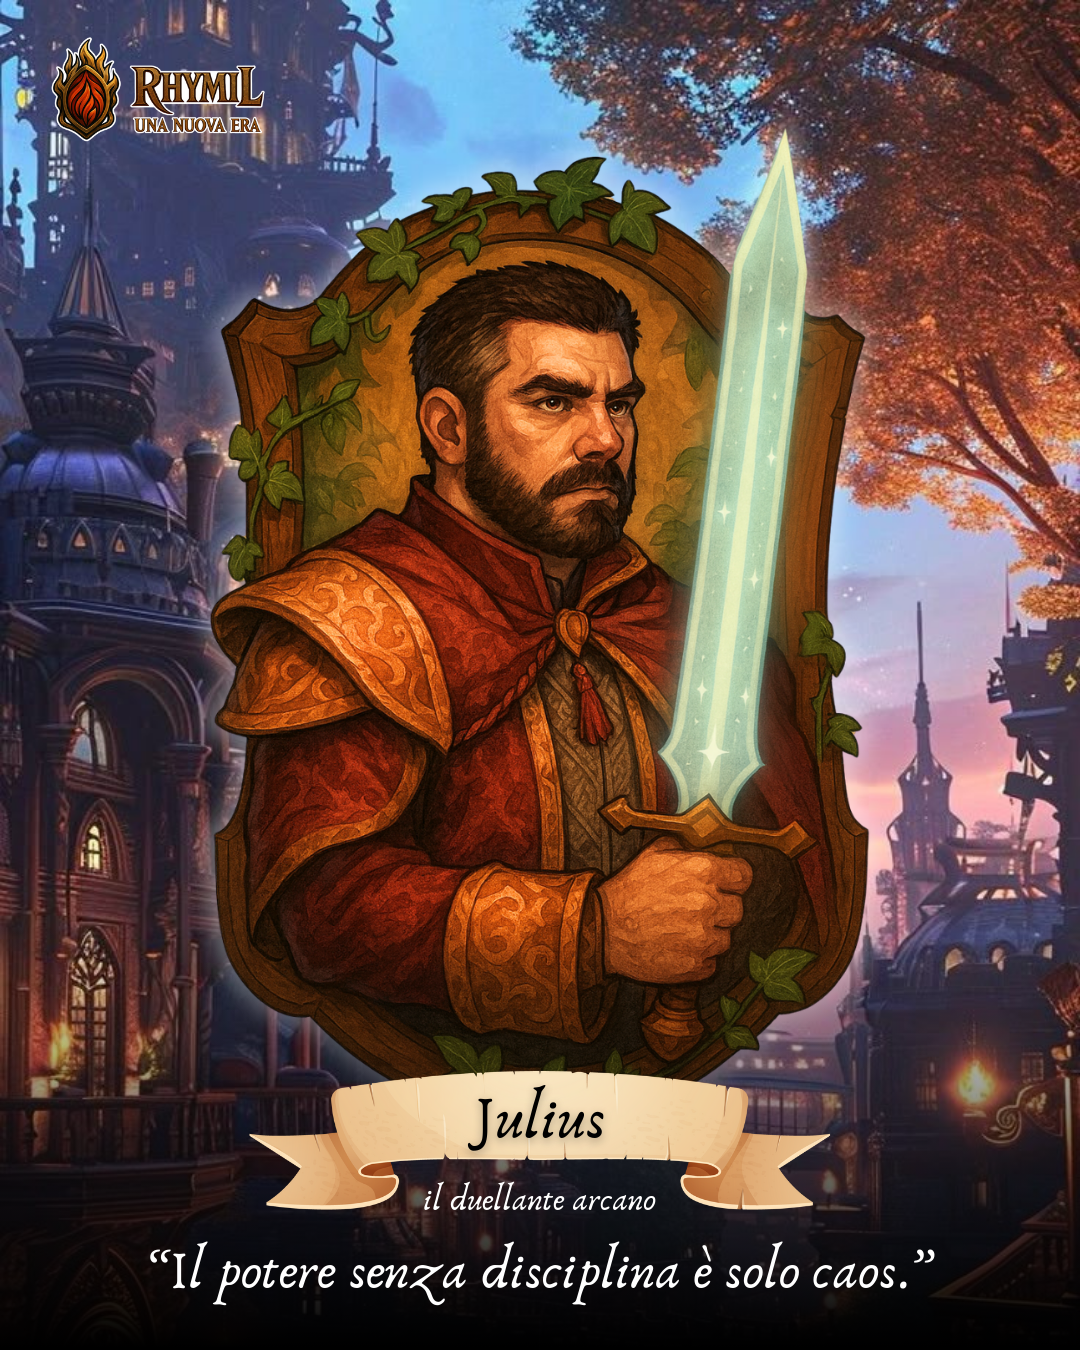
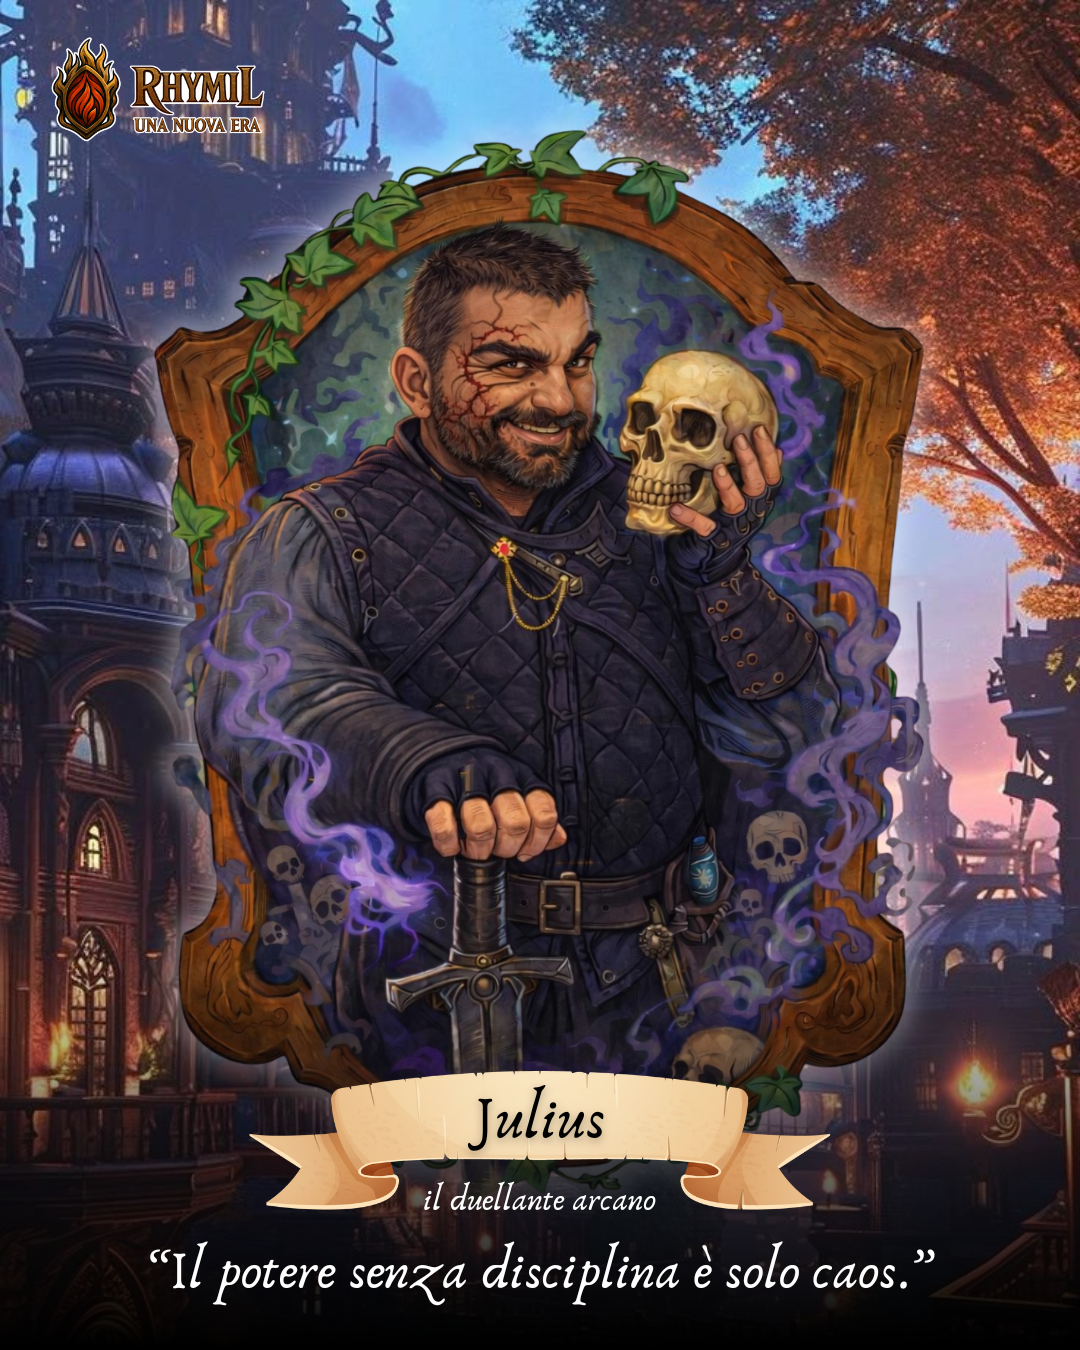
other pgs

diff --git a/index.html b/index.html
@@ -121,7 +121,7 @@
   <body>
     <header id="header">
       <div class="inner">
-        <p class="version">v1.9</p>
+        <p class="version">v1.10</p>
         <a href="#" class="image logo"><img src="./images/avatar.png" /></a>
         <p class="description">
           Benvenuto su Rhymil, il sito web centralizzatore di link ed
@@ -186,7 +186,10 @@
           >
         </li>
         <li class="panel-item">
-          <a href="https://www.instagram.com/rhymil_/" target="_blank">
+          <a
+            href="https://www.instagram.com/rhymil_una_nuova_era/"
+            target="_blank"
+          >
             <span
               class="icon brands fa-instagram"
               style="color: #e4405f"
@@ -505,8 +508,8 @@
     </span>
   </a>
 
-  <a href="/rhymil/stato-del-popolo-libero/p_alkib.png?version=1" data-pswp-width="1080" data-pswp-height="1350" title="Alkib &#39;Topo&#39; Moss">
-    <img src="/rhymil/stato-del-popolo-libero/thumb/p_alkib.png?version=1" width="110" alt="Alkib &#39;Topo&#39; Moss" loading="lazy" />
+  <a href="/rhymil/stato-del-popolo-libero/p_alkib.png?version=2" data-pswp-width="1080" data-pswp-height="1350" title="Alkib &#39;Topo&#39; Moss">
+    <img src="/rhymil/stato-del-popolo-libero/thumb/p_alkib.png?version=2" width="110" alt="Alkib &#39;Topo&#39; Moss" loading="lazy" />
     <span class="pswp-caption-content">
       <span class="myimage-name">Alkib &#39;Topo&#39; Moss</span>
       <span class="myimage-owner">- Tommaso Parolo</span><br />
@@ -523,12 +526,21 @@
     </span>
   </a>
 
-  <a href="/rhymil/stato-del-popolo-libero/p_eryn.png?version=1" data-pswp-width="1080" data-pswp-height="1350" title="Eryn">
-    <img src="/rhymil/stato-del-popolo-libero/thumb/p_eryn.png?version=1" width="110" alt="Eryn" loading="lazy" />
+  <a href="/rhymil/stato-del-popolo-libero/p_eryn.png?version=2" data-pswp-width="1080" data-pswp-height="1350" title="Eryn">
+    <img src="/rhymil/stato-del-popolo-libero/thumb/p_eryn.png?version=2" width="110" alt="Eryn" loading="lazy" />
     <span class="pswp-caption-content">
       <span class="myimage-name">Eryn</span>
       <span class="myimage-owner">- Elena Milanese</span><br />
       <span class="myimage-desc">Eryn è una Kiuth, è sempre stata vista come &#39;diversa&#39;, alcuni abbassano lo sguardo o cambiano strada a causa del suo aspetto. Lei non capisce questa cosa perché è sempre stata buona con tutti e ha sempre tentato di aiutare e proteggere. Vissuta in una famiglia di pescatori umili che hanno sempre avuto dei valori forti, ora è partita per dare un contributo anche lei e aiutare a mandare avanti l&#39;attività di famiglia.</span>
+    </span>
+  </a>
+
+  <a href="/rhymil/stato-del-popolo-libero/p_lecandel.png?version=2" data-pswp-width="1080" data-pswp-height="1350" title="Lecandel Purrfect">
+    <img src="/rhymil/stato-del-popolo-libero/thumb/p_lecandel.png?version=2" width="110" alt="Lecandel Purrfect" loading="lazy" />
+    <span class="pswp-caption-content">
+      <span class="myimage-name">Lecandel Purrfect</span>
+      <span class="myimage-owner">- Luca Milanese</span><br />
+      <span class="myimage-desc">È un felinide, perciò viene da un altro mondo. È stato accudito dagli gnomi a Dalarta dove ha imparato a fare piccole riparazioni ed è andato alla Città Centrale per iniziare i suoi studi di medicina.</span>
     </span>
   </a>
 
@@ -546,15 +558,6 @@
     <span class="pswp-caption-content">
       <span class="myimage-name">Duncan</span>
       <span class="myimage-owner">- Cristiano Padovani</span><br />
-      <span class="myimage-desc"></span>
-    </span>
-  </a>
-
-  <a href="/rhymil/stato-del-popolo-libero/p_eilwood.png?version=1" data-pswp-width="1080" data-pswp-height="1350" title="Eilwood">
-    <img src="/rhymil/stato-del-popolo-libero/thumb/p_eilwood.png?version=1" width="110" alt="Eilwood" loading="lazy" />
-    <span class="pswp-caption-content">
-      <span class="myimage-name">Eilwood</span>
-      <span class="myimage-owner">- Alessandro Beolchi</span><br />
       <span class="myimage-desc"></span>
     </span>
   </a>
@@ -847,20 +850,29 @@
     </header>
     <div class="pswp-gallery" id="gallery--ordine-dei-maghi">
       
-  <a href="/rhymil/ordine-dei-maghi/p_julius.png?version=1" data-pswp-width="1080" data-pswp-height="1350" title="Julius">
-    <img src="/rhymil/ordine-dei-maghi/thumb/p_julius.png?version=1" width="110" alt="Julius" loading="lazy" />
+  <a href="/rhymil/ordine-dei-maghi/p_julius.png?version=2" data-pswp-width="1080" data-pswp-height="1350" title="Julius Reynhold">
+    <img src="/rhymil/ordine-dei-maghi/thumb/p_julius.png?version=2" width="110" alt="Julius Reynhold" loading="lazy" />
     <span class="pswp-caption-content">
-      <span class="myimage-name">Julius</span>
+      <span class="myimage-name">Julius Reynhold</span>
       <span class="myimage-owner">- Samuele Lamon</span><br />
       <span class="myimage-desc"></span>
     </span>
   </a>
 
-  <a href="/rhymil/ordine-dei-maghi/p_gwin.png?version=1" data-pswp-width="1080" data-pswp-height="1350" title="Gwin">
-    <img src="/rhymil/ordine-dei-maghi/thumb/p_gwin.png?version=1" width="110" alt="Gwin" loading="lazy" />
+  <a href="/rhymil/ordine-dei-maghi/p_gwin.png?version=2" data-pswp-width="1080" data-pswp-height="1350" title="Gwin Lionlike">
+    <img src="/rhymil/ordine-dei-maghi/thumb/p_gwin.png?version=2" width="110" alt="Gwin Lionlike" loading="lazy" />
     <span class="pswp-caption-content">
-      <span class="myimage-name">Gwin</span>
-      
+      <span class="myimage-name">Gwin Lionlike</span>
+      <span class="myimage-owner">- Dario Piana</span><br />
+      <span class="myimage-desc"></span>
+    </span>
+  </a>
+
+  <a href="/rhymil/ordine-dei-maghi/p_keldan.png?version=1" data-pswp-width="1080" data-pswp-height="1350" title="Keldan">
+    <img src="/rhymil/ordine-dei-maghi/thumb/p_keldan.png?version=1" width="110" alt="Keldan" loading="lazy" />
+    <span class="pswp-caption-content">
+      <span class="myimage-name">Keldan</span>
+      <span class="myimage-owner">- Alessandro</span><br />
       <span class="myimage-desc"></span>
     </span>
   </a>
@@ -1033,20 +1045,20 @@
     </header>
     <div class="pswp-gallery" id="gallery--ordine-dei-cavalieri">
       
-  <a href="/rhymil/ordine-dei-cavalieri/p_rodrigo.png?version=1" data-pswp-width="1080" data-pswp-height="1350" title="Rodrigo">
-    <img src="/rhymil/ordine-dei-cavalieri/thumb/p_rodrigo.png?version=1" width="110" alt="Rodrigo" loading="lazy" />
+  <a href="/rhymil/ordine-dei-cavalieri/p_rodrigo.png?version=2" data-pswp-width="1080" data-pswp-height="1350" title="Rodrigo">
+    <img src="/rhymil/ordine-dei-cavalieri/thumb/p_rodrigo.png?version=2" width="110" alt="Rodrigo" loading="lazy" />
     <span class="pswp-caption-content">
       <span class="myimage-name">Rodrigo</span>
-      
+      <span class="myimage-owner">- Adriano Herrera</span><br />
       <span class="myimage-desc"></span>
     </span>
   </a>
 
-  <a href="/rhymil/ordine-dei-cavalieri/p_beruthiel.png?version=1" data-pswp-width="1080" data-pswp-height="1350" title="Beruthiel">
-    <img src="/rhymil/ordine-dei-cavalieri/thumb/p_beruthiel.png?version=1" width="110" alt="Beruthiel" loading="lazy" />
+  <a href="/rhymil/ordine-dei-cavalieri/p_beruthiel.png?version=2" data-pswp-width="1080" data-pswp-height="1350" title="Beruthiel">
+    <img src="/rhymil/ordine-dei-cavalieri/thumb/p_beruthiel.png?version=2" width="110" alt="Beruthiel" loading="lazy" />
     <span class="pswp-caption-content">
       <span class="myimage-name">Beruthiel</span>
-      
+      <span class="myimage-owner">- Angelica Cavalli</span><br />
       <span class="myimage-desc"></span>
     </span>
   </a>

diff --git a/generateRhymil.js b/generateRhymil.js
@@ -63,7 +63,8 @@ function loadJsonLoose(p) {
 // ---- Version bump ----------------------------------------------------------
 function bumpVersionInHtml(html) {
   const re =
-    /(<p\s+class=["']version["'][^>]*>[\s\S]*?\b[vV])(\d+(?:[.,]\d+)?)([\s\S]*?<\/p>)/i;
+    /(<p\s+class=["']version["'][^>]*>[\s\S]*?\b[vV])(\d+)(?:[.,](\d+))?([\s\S]*?<\/p>)/i;
+
   const m = html.match(re);
   if (!m) {
     console.warn(
@@ -71,16 +72,20 @@ function bumpVersionInHtml(html) {
     );
     return html;
   }
-  const raw = m[2].trim().replace(",", ".");
-  const curr = parseFloat(raw);
-  if (Number.isNaN(curr)) {
-    console.warn("⚠  Valore versione non numerico:", raw);
+
+  const major = parseInt(m[2], 10);
+  const minor = m[3] ? parseInt(m[3], 10) : 0;
+
+  if (Number.isNaN(major) || Number.isNaN(minor)) {
+    console.warn("⚠  Valore versione non numerico:", m[2], m[3]);
     return html;
   }
-  const next = Math.round((curr + 0.1) * 10) / 10;
-  const nextStr = next.toFixed(1);
-  console.log(`🔢 Versione: ${curr.toFixed(1)} → ${nextStr}`);
-  return html.replace(re, `$1${nextStr}$3`);
+
+  const nextMinor = minor + 1;
+  const nextStr = `${major}.${nextMinor}`;
+
+  console.log(`🔢 Versione: ${major}.${minor} → ${nextStr}`);
+  return html.replace(re, `$1${nextStr}$4`);
 }
 
 // ---- Markup builders -------------------------------------------------------
